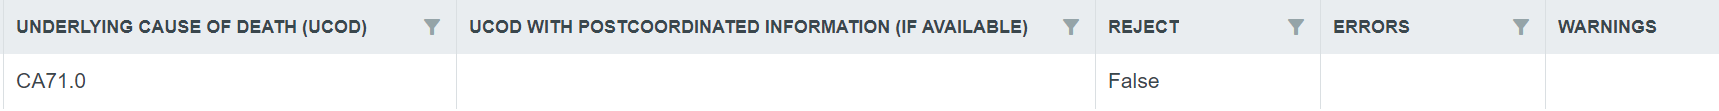
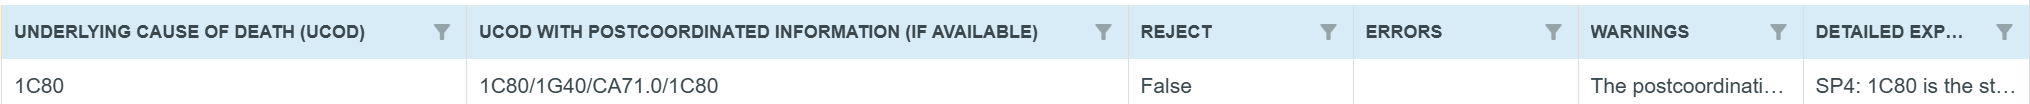
documentation update to include CoDEDIT

diff --git a/en/docs/doris-desktop-user-guide.md b/en/docs/doris-desktop-user-guide.md
@@ -47,23 +47,38 @@ If the imported data does not contain codes but textual conditions, then the too
 
 We suggest that automatic text to code conversions are checked by experts especially when the match is not a `GoodMatch` 
 ![Text to code columns](img/texttocode-columns.png){: style="width:60%"}
-
+![alt text](image.png)
 Text-to-code conversion issues button can be used to easily filter out the cases that contain text-to-code processing with non-GoodMatch results.
 ![Text to code issues button](img/texttocode-issues-button.png){: style="width:20%"}
 
-### Processing the Dataset (Underlying Cause of Death Detection)
+### Processing the Dataset (COEDIT checks)
+
+Processing the certificates with CODEDIT checks will check for any inconsistencies in the data and will report them
+![Process menu CODEDIT](img/process-menu-codedit.png){: style="width:40%"}
+
+Once the processing fisishes, COEDIT check results are visible at the end of the rows with yellow headers
+![COEDIT columns](img/codedit-columns.png)
+
+The certificates with issues can be filtered using the COEDIT issues button
+![Processing issues button for COEDIT](img/processing-issues-button-codedit.png){: style="width:20%"}  
+### Processing the Dataset (DORIS Underlying Cause of Death Detection)
 
 Processing the file will compute the underlying cause of death for each certificate. This is done by using the menu `Process`
-![Process menu](img/process-menu.png){: style="width:40%"}
+
 
 If it's a large dataset, the system will display a progress bar at the bottom of the screen to show the progress.
 
-Once the processing is finished, the results are in the `Underlying Cause of Death (UCOD)` column. If the underlying cause of death is a postcoordination combination it is placed in the `UCOD with postcoordination information` column. Rejected certificates are marked in the `Reject` column and Errors and Warnings are placed in the `Error` and `Warnings` columns.
+Once the processing is finished, new columns are added at the end of the row with blue headers. The results are in the `Underlying Cause of Death (UCOD)` column. If the underlying cause of death is a postcoordination combination it is placed in the `UCOD with postcoordination information` column. Rejected certificates are marked as TRUE in the `Reject` column and Errors and Warnings are placed in the `Error` and `Warnings` columns.
 
 ![UCOD columns](img/ucod-columns.png){: style="width:80%"}
 
- Certificates that are rejected or have other problems can be easily filtered out by using the Processing Issues button.
-![Processing issues button](img/processing-issues-button.png){: style="width:20%"}  
+ Certificates that are rejected or have other problems can be easily filtered out by using the DORIS Issues button.
+![Processing issues button for DORIS](img/processing-issues-button-doris.png){: style="width:20%"}  
+
+
+### Processing the Dataset (CODEDIT and DORIS)
+
+This will process the data both with COEDIT and DORIS as explained above
 
 ### Filtering and Sorting
 It is possible to sort the certificates by the values of a selected column by clicking on the column label. 
@@ -111,6 +126,19 @@ The DORIS tool provides four complementary visualization modes to support review
 **Rule Sequence Report:** This visualization displays the report as a horizontal sequence. The specific rules applied at each step are listed below showing the order in which the rules were applied from top to bottom.
 
 ![Rulesequencereport](img/Rulesequencereportdesktop.png){: style="width:40%"}
+
+## Dashboard
+
+Summary information on the dataset could be seen using the Dashboard menu.
+
+This provides information on the dataset such as:
+
+- Number of cases 
+- ICD-11 version used
+- Whether text-to-code processing is used or not. If used the amount of good matches vs others
+- Sex and age distributions
+- COEDIT check summaries
+- Underlying cause of death detection summaries
 
 ## Settings
 ### Changing Language